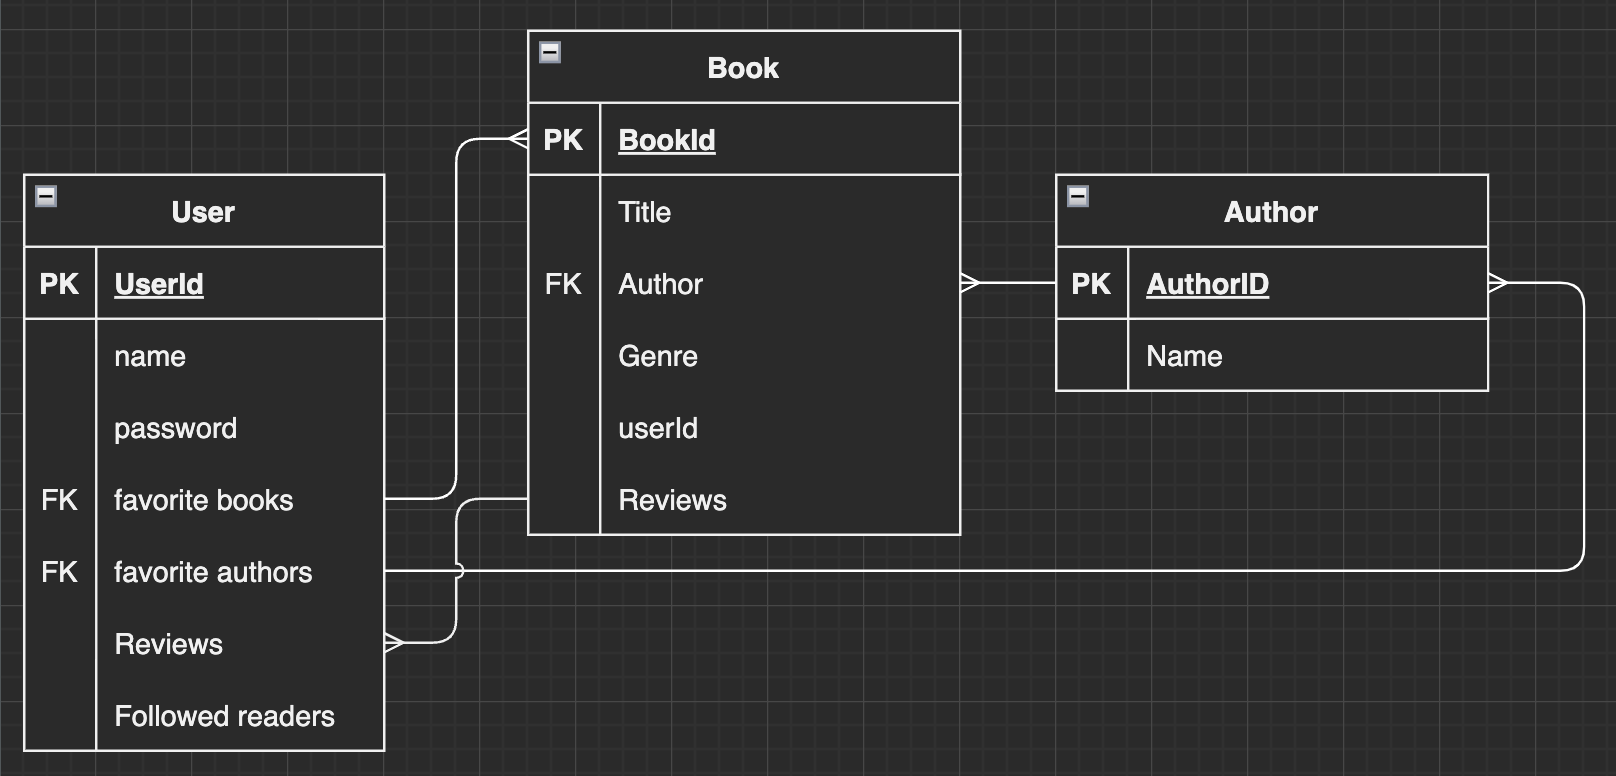
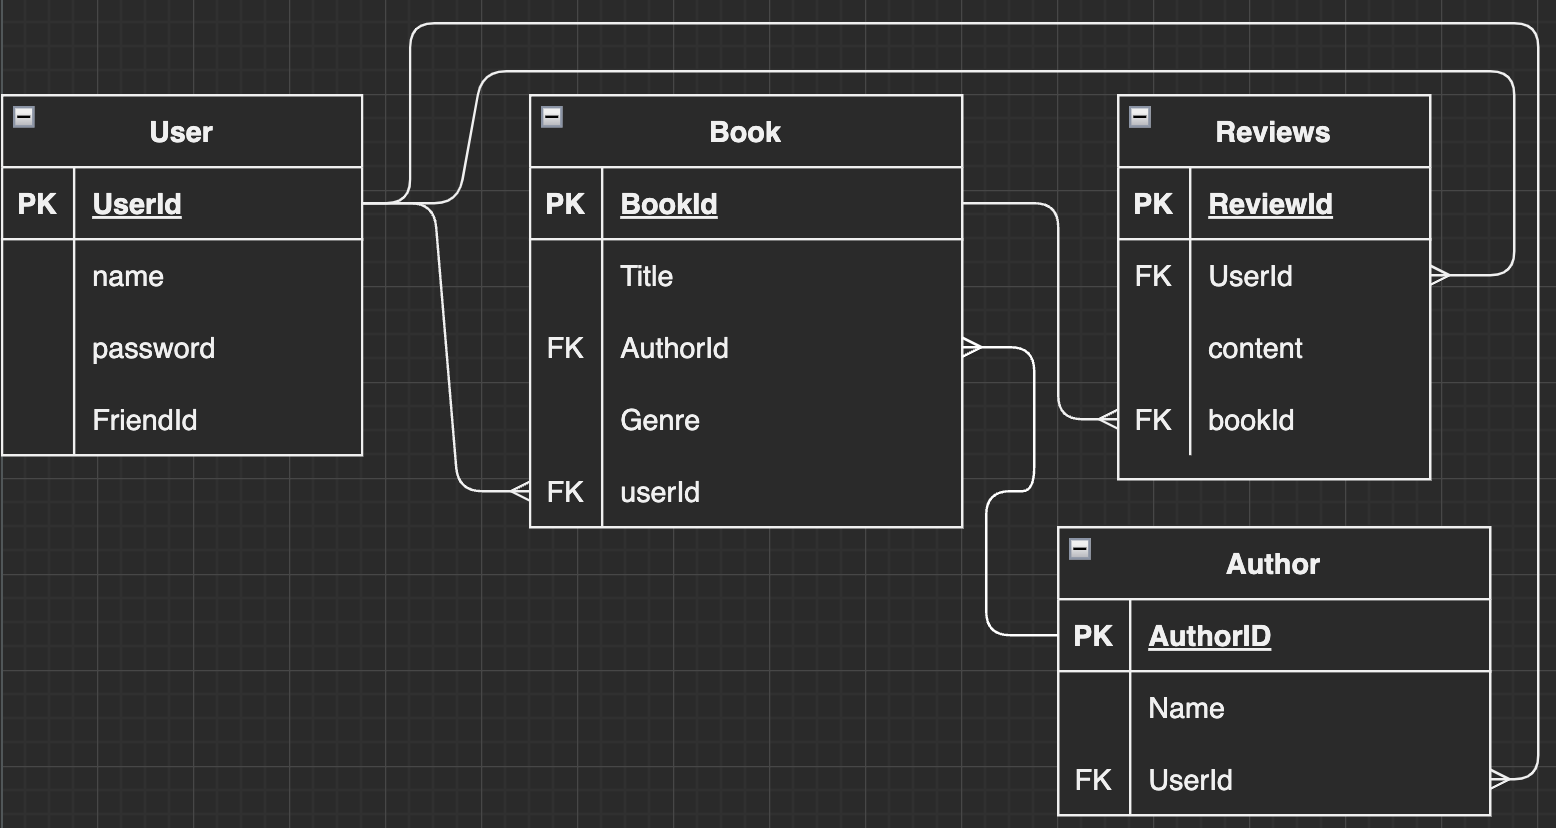
update erd

diff --git a/README.md b/README.md
@@ -4,7 +4,7 @@
 ---
 * Add your favorite books, authors, and genres to your profile
 * View book details from your profile
-* Leave reviews for all to see on your profile
+* Leave reviews on books for all to see
 * Check your friend's profiles and see their favorites lists and reviews
 ---
 I will be using the [Open Library](https://openlibrary.org) API to populate all data and render the JSON into a simple, easy to read format. 
@@ -72,13 +72,16 @@ DESTROY /books/:bookId -- delete reviews<br/>
 
 * Query API and render results on page when searched
 * sign up and log in users with unique usernames
-* Add books to favorites in profile
-* Add authors to favorites in profile
+* Add books and authors to favorites in profile
+* Delete books and authors in profile
 * Leave reviews on books
+* Edit reviews
 
 ### Stretch goals
 
+* 0-5 ratings on favorited books in profile
 * View all profiles
 * Add profiles to friends
 * View subjects
 * Radio buttons to search by author, title, or subject
+
